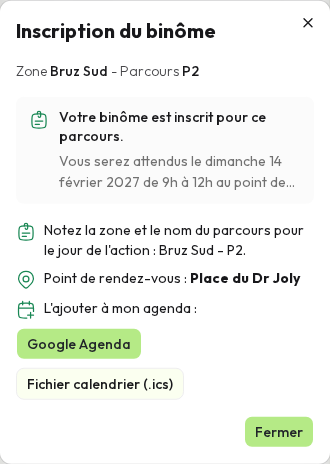
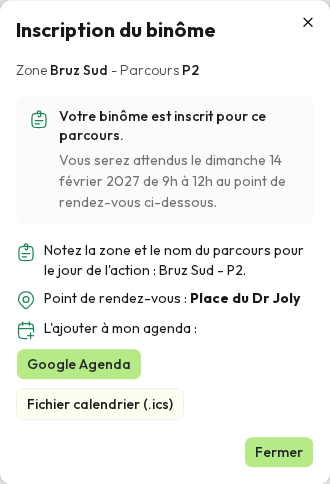
docs(clean): ajouter script de capture des screenshots du mode d'emploi
- Ajoute le script npm 'capture:manual' (scripts/capture-manual.sh)
- Ajoute playwright.manual.config.ts dédié (testDir ./scripts, testMatch capture-manual.spec.ts, Chromium uniquement)
- Le spec capture-manual.spec.ts est hors e2e/ pour ne pas être exécuté par bun run e2e
- Mise à jour du README avec la documentation du script

diff --git a/apps/clean/playwright.manual.config.ts b/apps/clean/playwright.manual.config.ts
@@ -1,0 +1,34 @@
+import { defineConfig, devices } from '@playwright/test';
+
+/**
+ * Configuration dédiée à la capture des screenshots du mode d'emploi.
+ *
+ * - testDir: './scripts' (le spec capture-manual.spec.ts n'est PAS dans e2e/
+ *   pour ne pas être exécuté par `bun run e2e`)
+ * - Un seul projet : Chromium
+ * - Pas de webServer : le script shell lance lui-même le serveur Next.js
+ *   en mode production.
+ */
+export default defineConfig({
+  testDir: './scripts',
+  /* Ne capturer que le spec Playwright du manuel (évite les .spec.ts Vitest
+     des autres scripts présents dans ./scripts) */
+  testMatch: ['capture-manual.spec.ts'],
+  /* Un seul test à la fois pour la capture */
+  fullyParallel: false,
+  forbidOnly: !!process.env['CI'],
+  retries: process.env['CI'] ? 2 : 0,
+  workers: 1,
+  reporter: 'list',
+  use: {
+    baseURL: 'http://localhost:4200',
+    trace: 'on-first-retry',
+  },
+
+  projects: [
+    {
+      name: 'chromium',
+      use: { ...devices['Desktop Chrome'] },
+    },
+  ],
+});

diff --git a/apps/clean/README.md b/apps/clean/README.md
@@ -76,9 +76,11 @@ bun run e2e
 
 Les 9 screenshots du mode d'emploi (`/manual`) sont stockés dans `public/manual/` et référencés par `app/manual/page.tsx`. Ils sont capturés en mode **mobile (360×780)**, contre un serveur en **mode production** (`next build && next start`), avec Chromium uniquement.
 
-Script : [`scripts/capture-manual.sh`](./scripts/capture-manual.sh)
+Script : [`scripts/capture-manual.sh`](./scripts/capture-manual.sh), aussi disponible via `bun run capture:manual` :
 
 ```sh
+bun run capture:manual
+# ou
 ./scripts/capture-manual.sh
 ```
 
